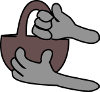
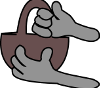
Add wolf hands

diff --git a/core/src/com/nupogodi/game/GameScreen.java b/core/src/com/nupogodi/game/GameScreen.java
@@ -3,27 +3,36 @@ package com.nupogodi.game;
 import com.badlogic.gdx.ApplicationAdapter;
 import com.badlogic.gdx.Gdx;
 import com.badlogic.gdx.graphics.GL20;
+import com.badlogic.gdx.scenes.scene2d.Actor;
 import com.badlogic.gdx.scenes.scene2d.Stage;
 import com.badlogic.gdx.utils.viewport.ScreenViewport;
 
 public class GameScreen extends ApplicationAdapter {
-	Stage stage;
-	
+	static Stage gameStage;
+
 	@Override
-	public void create () {
-		stage = new Stage(new ScreenViewport());
+	public void create() {
+		gameStage = new Stage(new ScreenViewport());
 		WolfActor wolfActor = new WolfActor();
 		Background background = new Background();
-		stage.addActor(background);
-		stage.addActor(wolfActor);
-		Gdx.input.setInputProcessor(stage);
-		
+		CreateHands createHands = new CreateHands() {
+		};
+		gameStage.addActor(background);
+		gameStage.addActor(wolfActor);
+		Gdx.input.setInputProcessor(gameStage);
+		createHands.addHands();
+
 	}
 
 	@Override
-	public void render () {
+	public void render() {
 		Gdx.gl.glClear(GL20.GL_COLOR_BUFFER_BIT);
-		stage.draw();
+		gameStage.draw();
 	}
-	
+
+	public void addActorOnStage(Object object) {
+		gameStage.addActor((Actor) object);
+
+	}
+
 }

diff --git a/core/src/com/nupogodi/game/CreateHands.java b/core/src/com/nupogodi/game/CreateHands.java
@@ -1,0 +1,32 @@
+package com.nupogodi.game;
+
+import com.badlogic.gdx.ApplicationAdapter;
+
+import Hands.ArmDownLeft;
+import Hands.ArmDownRight;
+import Hands.ArmUpLeft;
+import Hands.ArmUpRight;
+
+public abstract class CreateHands extends ApplicationAdapter {
+	GameScreen gameScreen = new GameScreen();
+
+	public CreateHands() {
+		super();
+	}
+
+	public void addHands() {
+		ArmDownLeft armDownLeft = new ArmDownLeft();
+		ArmUpLeft armUpLeft = new ArmUpLeft();
+		ArmDownRight armDownRight = new ArmDownRight();
+		ArmUpRight armUpRight = new ArmUpRight();
+		armDownLeft.setIsArmVisible(true);
+		armUpLeft.setVisible(false);
+		armDownRight.setVisible(false);
+		armUpRight.setVisible(false);
+		gameScreen.addActorOnStage(armDownLeft);
+		//gameStage.addActor(armUpLeft);
+		//gameStage.addActor(armDownRight);
+		//gameStage.addActor(armUpRight);
+	}
+
+}

diff --git a/core/src/Hands/ArmDownLeft.java b/core/src/Hands/ArmDownLeft.java
@@ -1,0 +1,25 @@
+package Hands;
+
+import com.badlogic.gdx.Gdx;
+import com.badlogic.gdx.graphics.Texture;
+import com.badlogic.gdx.graphics.g2d.Batch;
+import com.badlogic.gdx.scenes.scene2d.Actor;
+
+public class ArmDownLeft extends Actor {
+
+	Texture armDownLeft = new Texture(Gdx.files.internal("WolfArmsDownLeft.png"));
+	Boolean isArmVisible = true;
+
+	@Override
+	public void draw(Batch batch, float parentAlpha) {
+		batch.draw(armDownLeft, 50, 0);
+	}
+	
+	public Boolean getIsArmVisible() {
+		return isArmVisible;
+	}
+
+	public void setIsArmVisible(Boolean visible) {
+		this.isArmVisible = visible;
+	}
+}

diff --git a/core/src/Hands/ArmDownRight.java b/core/src/Hands/ArmDownRight.java
@@ -1,0 +1,16 @@
+package Hands;
+
+import com.badlogic.gdx.Gdx;
+import com.badlogic.gdx.graphics.Texture;
+import com.badlogic.gdx.graphics.g2d.Batch;
+import com.badlogic.gdx.scenes.scene2d.Actor;
+
+public class ArmDownRight extends Actor {
+	Texture armDownRight = new Texture(Gdx.files.internal("WolfArmsDownRight.png"));
+
+	@Override
+	public void draw(Batch batch, float parentAlpha) {
+		batch.draw(armDownRight, 50, 50);
+	}
+
+}

diff --git a/core/src/Hands/ArmUpRight.java b/core/src/Hands/ArmUpRight.java
@@ -1,0 +1,16 @@
+package Hands;
+
+import com.badlogic.gdx.Gdx;
+import com.badlogic.gdx.graphics.Texture;
+import com.badlogic.gdx.graphics.g2d.Batch;
+import com.badlogic.gdx.scenes.scene2d.Actor;
+
+public class ArmUpRight extends Actor {
+	Texture armUpRight = new Texture(Gdx.files.internal("WolfArmsUpRight.png"));
+
+	@Override
+	public void draw(Batch batch, float parentAlpha) {
+		batch.draw(armUpRight, 0, 0);
+	}
+
+}

diff --git a/core/src/Hands/ArmUpLeft.java b/core/src/Hands/ArmUpLeft.java
@@ -1,0 +1,16 @@
+package Hands;
+
+import com.badlogic.gdx.Gdx;
+import com.badlogic.gdx.graphics.Texture;
+import com.badlogic.gdx.graphics.g2d.Batch;
+import com.badlogic.gdx.scenes.scene2d.Actor;
+
+public class ArmUpLeft extends Actor {
+	Texture armUpLeft = new Texture(Gdx.files.internal("WolfArmsUpLeft.png"));
+
+	@Override
+	public void draw(Batch batch, float parentAlpha) {
+		batch.draw(armUpLeft, 0, 50);
+	}
+
+}
